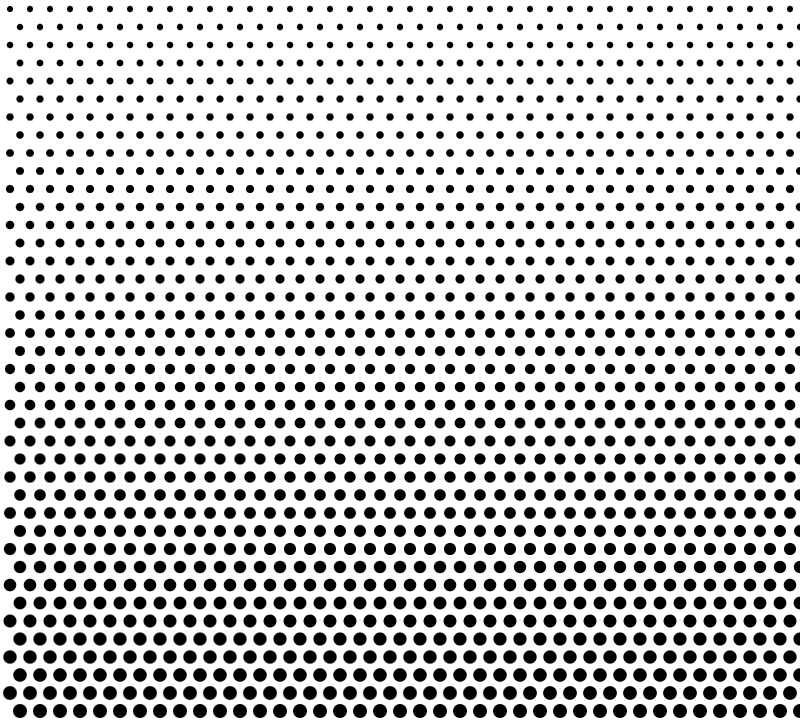
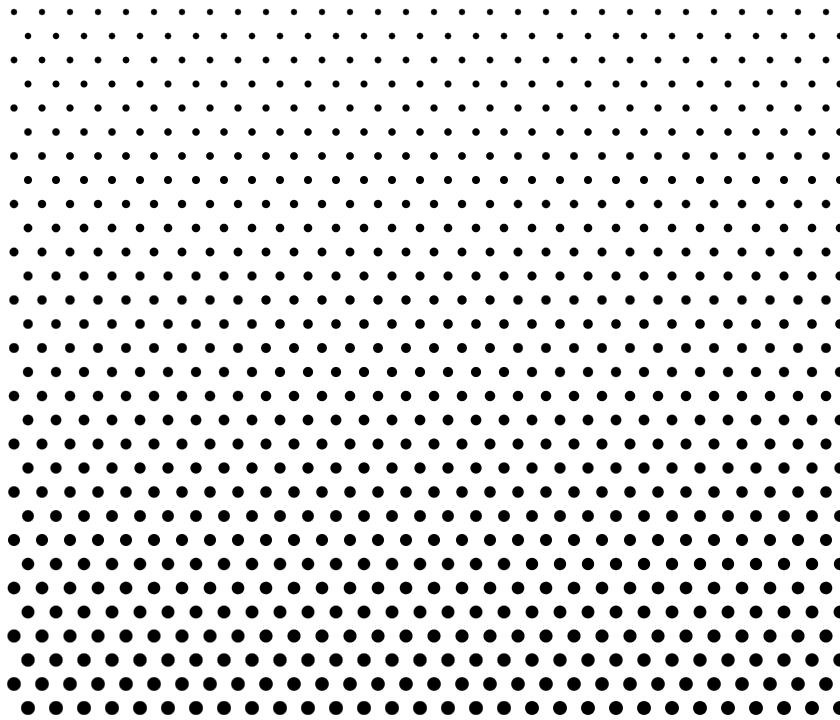
CV: un seul dégradé de points, plus aéré, et fondu dans le semis
La page portait déjà .dots-bg en haut (shared.css) : deux dégradés se
superposaient. Il est masqué sur cette page, le motif de marque reste.

Pas de la grille élargi de 20x18 à 28x24 px, tuiles régénérées à cette
mesure. Les dégradés s'éteignent maintenant par un masque avant de
rejoindre le semis, au lieu de s'arrêter net sur une couture.

diff --git a/styles/cv.css b/styles/cv.css
@@ -903,8 +903,8 @@
     background-image:
         radial-gradient(circle, var(--dot-ink) 1.4px, transparent 1.5px),
         radial-gradient(circle, var(--dot-ink) 1.4px, transparent 1.5px);
-    background-size: 20px 36px, 20px 36px;
-    background-position: 0 0, 10px 18px;
+    background-size: 28px 48px, 28px 48px;
+    background-position: 0 0, 14px 24px;
     -webkit-mask-image: linear-gradient(to bottom,
         rgba(0, 0, 0, 0) 0,
         rgba(0, 0, 0, 0) var(--cv-dots-hero),
@@ -930,8 +930,28 @@
     background-position: center var(--cv-dots-hero), center bottom;
     /* Taille naturelle : étirer la tuile transformerait les points en ovales,
        alors que la spec de marque parle de cercles. */
-    background-size: 800px 720px, 800px 720px;
+    background-size: 840px 720px, 840px 720px;
+    /* Sans ce fondu, la tuile s'arrête net sur le semis et laisse une
+       couture. Chaque dégradé s'éteint donc avant de le rejoindre. */
+    -webkit-mask-image: linear-gradient(to bottom,
+        #000 0,
+        #000 calc(var(--cv-dots-hero) + 240px),
+        transparent calc(var(--cv-dots-hero) + 700px),
+        transparent calc(100% - 700px),
+        #000 calc(100% - 240px),
+        #000 100%);
+    mask-image: linear-gradient(to bottom,
+        #000 0,
+        #000 calc(var(--cv-dots-hero) + 240px),
+        transparent calc(var(--cv-dots-hero) + 700px),
+        transparent calc(100% - 700px),
+        #000 calc(100% - 240px),
+        #000 100%);
 }
+
+/* La page portait déjà son propre dégradé de points en haut (.dots-bg,
+   shared.css) : il faisait doublon avec celui-ci. Un seul système. */
+.cv-page .dots-bg { display: none; }
 
 /* La trame est un fond : tout le contenu passe devant. */
 .cv-page .site-content > * { position: relative; z-index: 1; }
